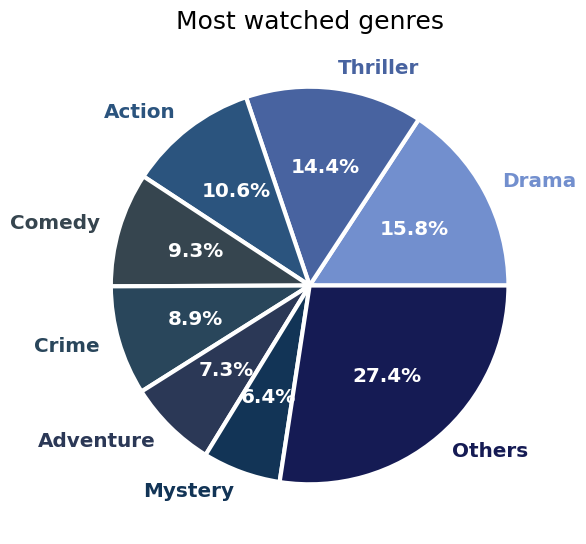
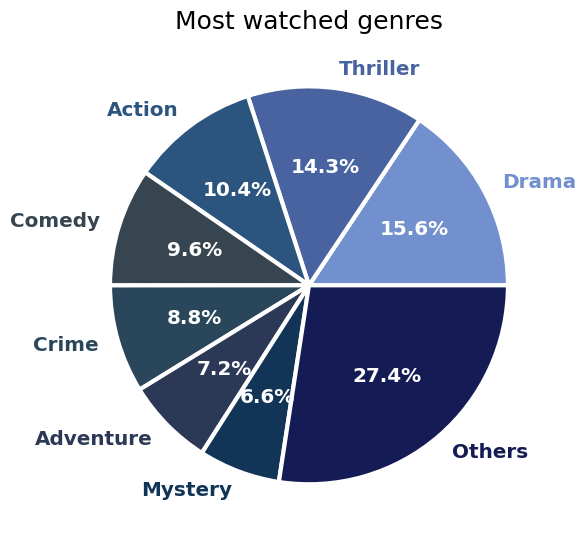
Update Jan 10
Updating webpage...

diff --git a/_pages/about.html b/_pages/about.html
@@ -108,7 +108,9 @@ div.box div.body img {
 <p>Hello there!</p>
 <p>My name is Joel Oliveira Reis (河溪久).</p>
 <p>I'm from Fátima, Portugal, living in Macau, China, since 2014.</p>
-<p>In 2013, I graduated from <span class="colorgradlink"><a href="https://tecnico.ulisboa.pt/en/" target="_blank">Instituto Superior Técnico</a></span>, Lisbon, with a master's degree in Aerospace Engineering (Avionics major).</p>
+<p>Currently, I am an Assistant Professor with the <span class="colorgradlink"><a href="https://www.fst.um.edu.mo/ost/" target="_blank">Department of Ocean Science and Technology</a></span> at the <span class="colorgradlink"><a href="https://www.fst.um.edu.mo/" target="_blank">Faculty of Science and Technology</a></span> of the <span class="colorgradlink"><a href="https://www.um.edu.mo/" target="_blank">University of Macau</a></span>.</p>
+<p>My research interests include estimation and control theory with applications to aerial, marine surface, and underwater autonomous vehicles.</p>
+<p>If you are interested in working with me as a PhD Student/Research Assistant/Postdoctoral Fellow, please contact me at <a href = "mailto: joelreis@um.edu.com">joelreis@um.edu.mo</a>.</p>
 </div>
 
 <header>
@@ -116,6 +118,7 @@ div.box div.body img {
 </header>
 
 <div>
+<p>In 2013, I graduated from <span class="colorgradlink"><a href="https://tecnico.ulisboa.pt/en/" target="_blank">Instituto Superior Técnico</a></span>, Lisbon, with a master's degree in Aerospace Engineering (Avionics major).</p>
 <p>During my master's thesis, I worked on the development of an ultra-short baseline (USBL) acoustic positioning system (see photo below).</p>
 <p>This type of system, similar to a constellation of radio-navigation satellites, enables accurate localization and navigation of underwater vehicles in challenging environments.</p>
 <p>It's an extremely demanding (but rewarding) area of robotics engineering, with many innovative and exciting developments in the horizon!</p>
@@ -144,9 +147,6 @@ div.box div.body img {
   <div class="overlay">Experimental setup for validation of attitude estimation algorithms: Ideal Aerosmith motion rate table + KVH 1775 Fiber Optic Gyro Inertial Measurement Unit</div>
 </div>
 </div>
-
-<p>I am currently a Post-doctoral Fellow at UM, working in the Sensor-based Cooperative Robotics Research (SCORE) laboratory.</p>
-<p>My research interests include estimation and control theory with applications to aerial, marine surface, and underwater autonomous vehicles.</p>
 
 <header>
   <h1>Reading</h1>

diff --git a/_pages/books.html b/_pages/books.html
@@ -159,4 +159,13 @@ div.desc {
         <p>Provides readers with real-world practicality with underlying theory presented. With one half of the material from traditional mechanical engineering material, one fourth control theoretical material, and one fourth computer science, the book covers rigid-body transformations, forward and inverse positional kinematics, velocities and Jacobians of linkages, dynamics, linear control, non-linear control, force control methodologies, mechanical design aspects and programming of robots. For engineers.</p>
     </div>
 </div>
+<div class="container">
+    <div class="bookcover">
+        <img src="/images/spong.jpg">
+    </div>
+    <div class="text">
+        <h2><i>Robot Modeling and Control</i>, by Mark W. Spong, Seth Hutchinson, and M. Vidyasagar</h2>
+        <p>In the 2nd Edition of Robot Modeling and Control, students will cover the theoretical fundamentals and the latest technological advances in robot kinematics. With so much advancement in technology, from robotics to motion planning, society can implement more powerful and dynamic algorithms than ever before. This in-depth reference guide educates readers in four distinct parts; the first two serve as a guide to the fundamentals of robotics and motion control, while the last two dive more in-depth into control theory and nonlinear system analysis.</p>
+    </div>
+</div>
 </body>

diff --git a/_pages/cv.html b/_pages/cv.html
@@ -95,6 +95,14 @@ h2 {
 
 <body>
 <div>
+  <h1><i class="fas fa-graduation-cap" style="color:#2993FC" aria-hidden="true"></i> Teaching Experience</h1>
+</div>
+<div class="container">
+  <ul class="colored_list">
+    <li>Assistant Professor in the Department of Ocean Science and Technology, University of Macau, 2024 - </li>
+  </ul>
+</div>
+<div>
   <h1><i class="fas fa-graduation-cap" style="color:#2993FC" aria-hidden="true"></i> Education</h1>
 </div>
 <div class="container">

diff --git a/_includes/imdbanalyzer.md b/_includes/imdbanalyzer.md
@@ -7,9 +7,15 @@ The ratings file is available from your IMDb user account.
 import pandas as pd 
 import numpy as np
 import matplotlib.pyplot as plt
+from datetime import date
 
 ratings  =  pd.read_csv("ratings.csv")
+
+print("Last updated:" + str(date.today()))
 ```
+
+    Last updated:2024-01-10
+    
 
 Parsing data.
 
@@ -63,7 +69,7 @@ plt.show()
 
 
     
-![png](../images/imdbanalyzer_5_0.png)
+![png](imdbanalyzer_files/imdbanalyzer_5_0.png)
     
 
 
@@ -137,7 +143,7 @@ genres_dataframe_less_watched.style.set_table_styles(
 
 
     
-![png](../images/imdbanalyzer_7_0.png)
+![png](imdbanalyzer_files/imdbanalyzer_7_0.png)
     
 
 
@@ -145,19 +151,19 @@ genres_dataframe_less_watched.style.set_table_styles(
 
 
 <style type="text/css">
-#T_1aece th {
+#T_1700b th {
   background-color: #D3D3D3;
 }
-#T_1aece tbody tr:nth-child(even) {
+#T_1700b tbody tr:nth-child(even) {
   background-color: #89CFF0;
 }
 </style>
-<table id="T_1aece">
+<table id="T_1700b">
   <thead>
     <tr>
       <th class="blank level0" >&nbsp;</th>
-      <th id="T_1aece_level0_col0" class="col_heading level0 col0" >Genre</th>
-      <th id="T_1aece_level0_col1" class="col_heading level0 col1" >Movies watched</th>
+      <th id="T_1700b_level0_col0" class="col_heading level0 col0" >Genre</th>
+      <th id="T_1700b_level0_col1" class="col_heading level0 col1" >Movies watched</th>
     </tr>
     <tr>
       <th class="index_name level0" >#</th>
@@ -167,79 +173,79 @@ genres_dataframe_less_watched.style.set_table_styles(
   </thead>
   <tbody>
     <tr>
-      <th id="T_1aece_level0_row0" class="row_heading level0 row0" >8</th>
-      <td id="T_1aece_row0_col0" class="data row0 col0" >Sci-Fi</td>
-      <td id="T_1aece_row0_col1" class="data row0 col1" >372</td>
+      <th id="T_1700b_level0_row0" class="row_heading level0 row0" >8</th>
+      <td id="T_1700b_row0_col0" class="data row0 col0" >Sci-Fi</td>
+      <td id="T_1700b_row0_col1" class="data row0 col1" >380</td>
     </tr>
     <tr>
-      <th id="T_1aece_level0_row1" class="row_heading level0 row1" >9</th>
-      <td id="T_1aece_row1_col0" class="data row1 col0" >Romance</td>
-      <td id="T_1aece_row1_col1" class="data row1 col1" >268</td>
+      <th id="T_1700b_level0_row1" class="row_heading level0 row1" >9</th>
+      <td id="T_1700b_row1_col0" class="data row1 col0" >Romance</td>
+      <td id="T_1700b_row1_col1" class="data row1 col1" >286</td>
     </tr>
     <tr>
-      <th id="T_1aece_level0_row2" class="row_heading level0 row2" >10</th>
-      <td id="T_1aece_row2_col0" class="data row2 col0" >Fantasy</td>
-      <td id="T_1aece_row2_col1" class="data row2 col1" >262</td>
+      <th id="T_1700b_level0_row2" class="row_heading level0 row2" >10</th>
+      <td id="T_1700b_row2_col0" class="data row2 col0" >Fantasy</td>
+      <td id="T_1700b_row2_col1" class="data row2 col1" >276</td>
     </tr>
     <tr>
-      <th id="T_1aece_level0_row3" class="row_heading level0 row3" >11</th>
-      <td id="T_1aece_row3_col0" class="data row3 col0" >Horror</td>
-      <td id="T_1aece_row3_col1" class="data row3 col1" >254</td>
+      <th id="T_1700b_level0_row3" class="row_heading level0 row3" >11</th>
+      <td id="T_1700b_row3_col0" class="data row3 col0" >Horror</td>
+      <td id="T_1700b_row3_col1" class="data row3 col1" >255</td>
     </tr>
     <tr>
-      <th id="T_1aece_level0_row4" class="row_heading level0 row4" >12</th>
-      <td id="T_1aece_row4_col0" class="data row4 col0" >Family</td>
-      <td id="T_1aece_row4_col1" class="data row4 col1" >168</td>
+      <th id="T_1700b_level0_row4" class="row_heading level0 row4" >12</th>
+      <td id="T_1700b_row4_col0" class="data row4 col0" >Family</td>
+      <td id="T_1700b_row4_col1" class="data row4 col1" >179</td>
     </tr>
     <tr>
-      <th id="T_1aece_level0_row5" class="row_heading level0 row5" >13</th>
-      <td id="T_1aece_row5_col0" class="data row5 col0" >Biography</td>
-      <td id="T_1aece_row5_col1" class="data row5 col1" >125</td>
+      <th id="T_1700b_level0_row5" class="row_heading level0 row5" >13</th>
+      <td id="T_1700b_row5_col0" class="data row5 col0" >Biography</td>
+      <td id="T_1700b_row5_col1" class="data row5 col1" >129</td>
     </tr>
     <tr>
-      <th id="T_1aece_level0_row6" class="row_heading level0 row6" >14</th>
-      <td id="T_1aece_row6_col0" class="data row6 col0" >Animation</td>
-      <td id="T_1aece_row6_col1" class="data row6 col1" >109</td>
+      <th id="T_1700b_level0_row6" class="row_heading level0 row6" >14</th>
+      <td id="T_1700b_row6_col0" class="data row6 col0" >Animation</td>
+      <td id="T_1700b_row6_col1" class="data row6 col1" >116</td>
     </tr>
     <tr>
-      <th id="T_1aece_level0_row7" class="row_heading level0 row7" >15</th>
-      <td id="T_1aece_row7_col0" class="data row7 col0" >War</td>
-      <td id="T_1aece_row7_col1" class="data row7 col1" >80</td>
+      <th id="T_1700b_level0_row7" class="row_heading level0 row7" >15</th>
+      <td id="T_1700b_row7_col0" class="data row7 col0" >War</td>
+      <td id="T_1700b_row7_col1" class="data row7 col1" >84</td>
     </tr>
     <tr>
-      <th id="T_1aece_level0_row8" class="row_heading level0 row8" >16</th>
-      <td id="T_1aece_row8_col0" class="data row8 col0" >History</td>
-      <td id="T_1aece_row8_col1" class="data row8 col1" >68</td>
+      <th id="T_1700b_level0_row8" class="row_heading level0 row8" >16</th>
+      <td id="T_1700b_row8_col0" class="data row8 col0" >History</td>
+      <td id="T_1700b_row8_col1" class="data row8 col1" >73</td>
     </tr>
     <tr>
-      <th id="T_1aece_level0_row9" class="row_heading level0 row9" >17</th>
-      <td id="T_1aece_row9_col0" class="data row9 col0" >Western</td>
-      <td id="T_1aece_row9_col1" class="data row9 col1" >32</td>
+      <th id="T_1700b_level0_row9" class="row_heading level0 row9" >17</th>
+      <td id="T_1700b_row9_col0" class="data row9 col0" >Western</td>
+      <td id="T_1700b_row9_col1" class="data row9 col1" >33</td>
     </tr>
     <tr>
-      <th id="T_1aece_level0_row10" class="row_heading level0 row10" >18</th>
-      <td id="T_1aece_row10_col0" class="data row10 col0" >Sport</td>
-      <td id="T_1aece_row10_col1" class="data row10 col1" >31</td>
+      <th id="T_1700b_level0_row10" class="row_heading level0 row10" >18</th>
+      <td id="T_1700b_row10_col0" class="data row10 col0" >Sport</td>
+      <td id="T_1700b_row10_col1" class="data row10 col1" >31</td>
     </tr>
     <tr>
-      <th id="T_1aece_level0_row11" class="row_heading level0 row11" >19</th>
-      <td id="T_1aece_row11_col0" class="data row11 col0" >Music</td>
-      <td id="T_1aece_row11_col1" class="data row11 col1" >27</td>
+      <th id="T_1700b_level0_row11" class="row_heading level0 row11" >19</th>
+      <td id="T_1700b_row11_col0" class="data row11 col0" >Music</td>
+      <td id="T_1700b_row11_col1" class="data row11 col1" >29</td>
     </tr>
     <tr>
-      <th id="T_1aece_level0_row12" class="row_heading level0 row12" >20</th>
-      <td id="T_1aece_row12_col0" class="data row12 col0" >Documentary</td>
-      <td id="T_1aece_row12_col1" class="data row12 col1" >25</td>
+      <th id="T_1700b_level0_row12" class="row_heading level0 row12" >20</th>
+      <td id="T_1700b_row12_col0" class="data row12 col0" >Musical</td>
+      <td id="T_1700b_row12_col1" class="data row12 col1" >28</td>
     </tr>
     <tr>
-      <th id="T_1aece_level0_row13" class="row_heading level0 row13" >21</th>
-      <td id="T_1aece_row13_col0" class="data row13 col0" >Musical</td>
-      <td id="T_1aece_row13_col1" class="data row13 col1" >24</td>
+      <th id="T_1700b_level0_row13" class="row_heading level0 row13" >21</th>
+      <td id="T_1700b_row13_col0" class="data row13 col0" >Documentary</td>
+      <td id="T_1700b_row13_col1" class="data row13 col1" >26</td>
     </tr>
     <tr>
-      <th id="T_1aece_level0_row14" class="row_heading level0 row14" >22</th>
-      <td id="T_1aece_row14_col0" class="data row14 col0" >Film-Noir</td>
-      <td id="T_1aece_row14_col1" class="data row14 col1" >15</td>
+      <th id="T_1700b_level0_row14" class="row_heading level0 row14" >22</th>
+      <td id="T_1700b_row14_col0" class="data row14 col0" >Film-Noir</td>
+      <td id="T_1700b_row14_col1" class="data row14 col1" >15</td>
     </tr>
   </tbody>
 </table>
@@ -286,7 +292,7 @@ plt.show()
 
 
     
-![png](../images/imdbanalyzer_9_0.png)
+![png](imdbanalyzer_files/imdbanalyzer_9_0.png)
     
 
 
@@ -312,11 +318,11 @@ plt.show()
 
 
     
-![png](../images/imdbanalyzer_11_0.png)
+![png](imdbanalyzer_files/imdbanalyzer_11_0.png)
     
 
 
-Let us now take a look at the average ratings in function of release year.  
+Let us now take a look at the average ratings in function of release year. 
 
 
 ```python
@@ -347,11 +353,13 @@ ax.grid(axis='x')
 
 
     
-![png](../images/imdbanalyzer_13_0.png)
+![png](imdbanalyzer_files/imdbanalyzer_13_0.png)
     
 
 
-Let us see now aligned I am with the masses.
+Let us see now how aligned I am with the masses.
+
+It seems that we kind of agree on the 7's. 
 
 
 ```python
@@ -364,6 +372,9 @@ sequence_x = np.linspace(counted_ratings[0][0], counted_ratings[0][-1], num=50)
 
 # Plot regression line
 plt.plot(sequence_x, b + m * sequence_x, color="r", linestyle = '--', lw=1.5)
+
+# Plot y = x line
+plt.plot(sequence_x, sequence_x, color="g", linestyle = '--', lw=1.5)
 
 mean_rating = np.empty([len(counted_ratings[0])]) # Empty array
 std_rating  = np.empty([len(counted_ratings[0])]) # Empty array
@@ -385,6 +396,6 @@ plt.show()
 
 
     
-![png](../images/imdbanalyzer_15_0.png)
+![png](imdbanalyzer_files/imdbanalyzer_15_0.png)
     
 

diff --git a/_pages/courses.md b/_pages/courses.md
@@ -7,6 +7,18 @@ author_profile: true
 
 {% include base_path %}
 
+## Spring (2nd) semester 2023/2024
+
+* Digital Signal Processing (DSP) 
+
+## Fall (1st) semester 2023/2024
+
+* Linear Algebra - Probability and Statistics 
+
+## Spring (2nd) semester 2022/2023
+
+* Digital Signal Processing (DSP) 
+
 ## Fall (1st) semester 2022/2023
 
 * Linear Algebra - Probability and Statistics 
